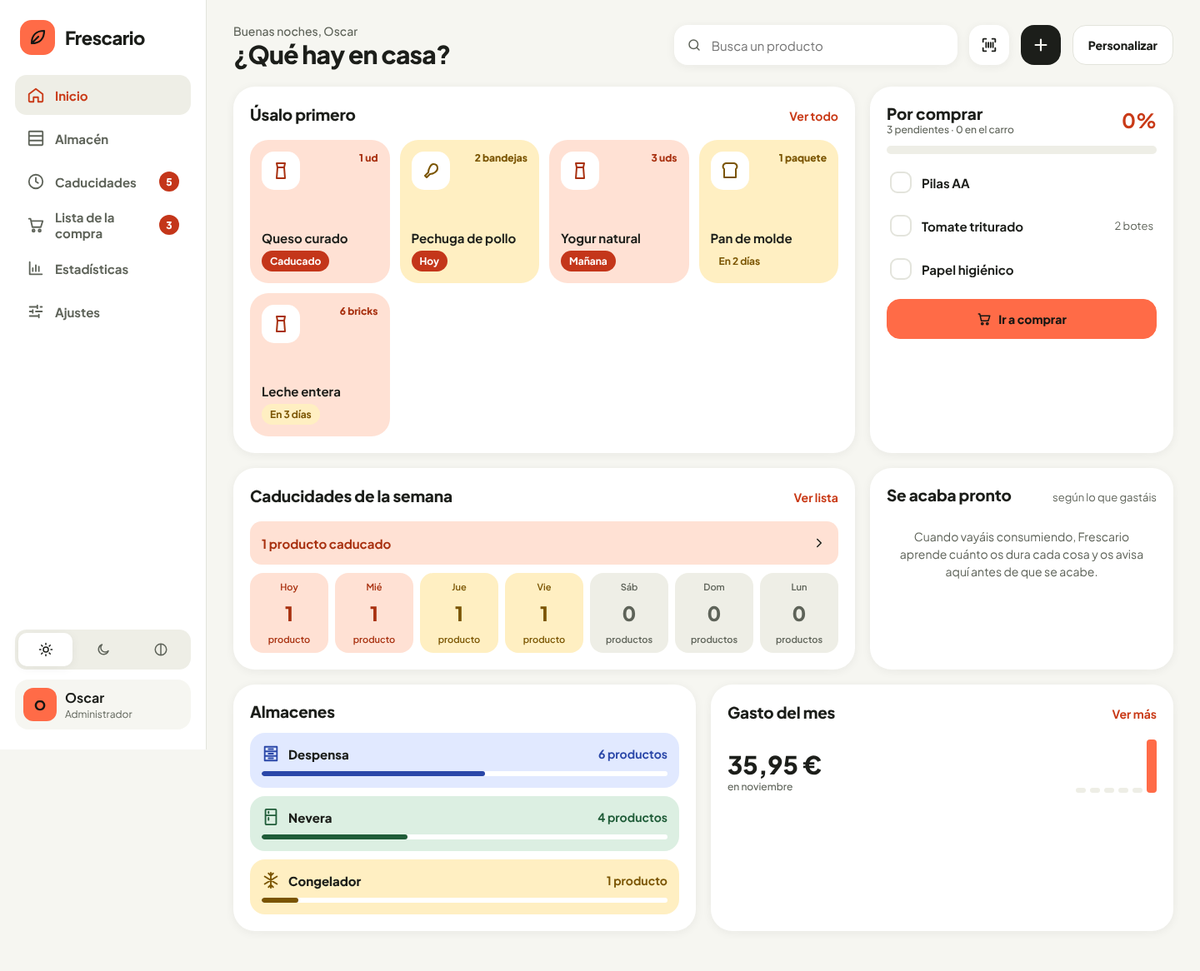
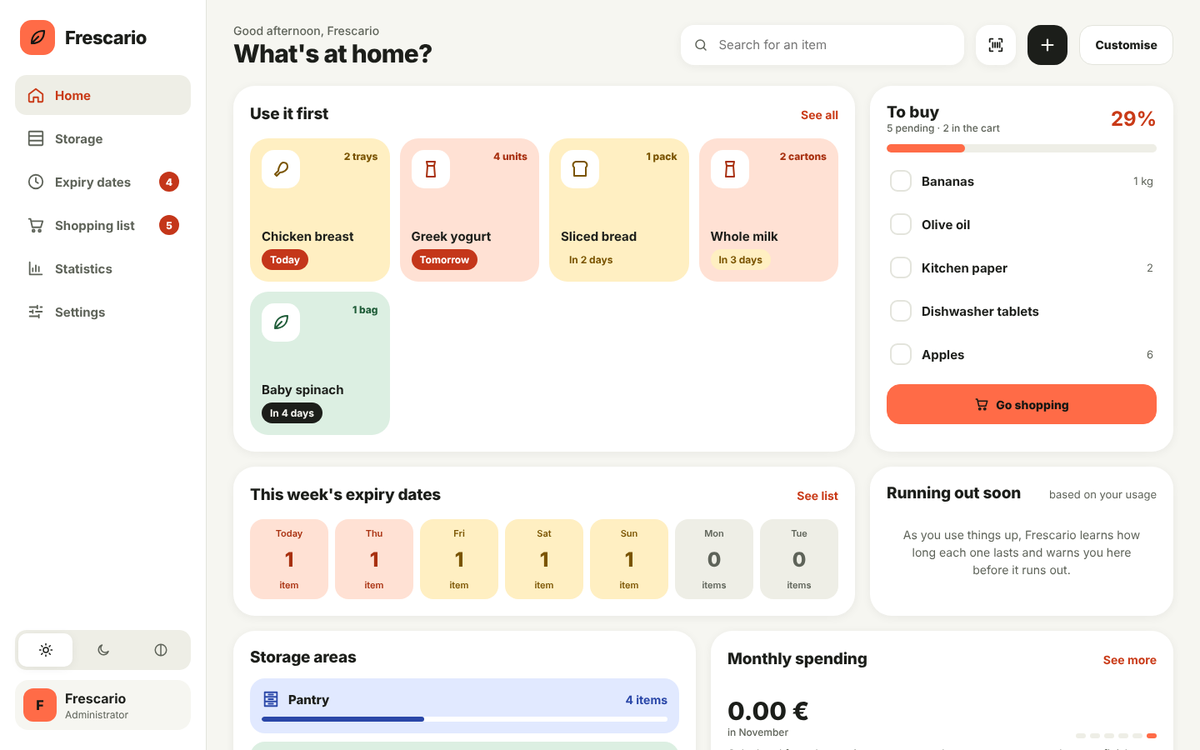
Frescario 1.3.3: capturas nuevas con datos de ejemplo, categorías en inglés y una traducción

diff --git a/frescario/app/server.js b/frescario/app/server.js
@@ -11,7 +11,7 @@ const crypto = require('crypto');
 const ha = require('./ha');
 const ext = require('./externos');
 
-const VERSION = '1.3.2';
+const VERSION = '1.3.3';
 const PORT = parseInt(process.env.PORT || '8099', 10);
 const DEV = process.env.FRESCARIO_DEV === '1';
 const DATA_DIR = process.env.FRESCARIO_DATA || '/data';
@@ -203,13 +203,20 @@ function ritmoConsumo(p) {
 function vistaUsuario(u) { return { id: u.id, nombre: u.nombre, usuario: u.usuario, rol: u.rol, prefs: u.prefs, alta: u.alta }; }
 
 const PISTAS = [
-  [/(leche|yogur|queso|huevo|mantequilla|nata|kefir)/, 'Lácteos y huevos'], [/(pollo|ternera|cerdo|carne|jamon|chorizo|salchich|pavo|lomo|hamburgues|embutido)/, 'Carne'],
-  [/(merluza|salmon|atun|bacalao|gamba|pescado|sardina|calamar|mejillon)/, 'Pescado'], [/(manzana|platano|naranja|pera|tomate|lechuga|cebolla|patata|zanahoria|pimiento|fruta|verdura|ajo|limon|fresa|uva|aguacate|espinaca|calabacin|pepino)/, 'Fruta y verdura'],
-  [/(pan |baguette|bolleria|croissant|tostada|pan$|^pan)/, 'Panadería'], [/(lata|conserva|bote)/, 'Conservas'], [/(congelad|helado|pizza)/, 'Congelados'],
-  [/(agua|zumo|refresco|cerveza|vino|cola|bebida)/, 'Bebidas'], [/(arroz|pasta|macarron|espagueti|lenteja|garbanzo|alubia|harina|fideo)/, 'Pasta, arroz y legumbres'],
-  [/(cafe|cacao|cereal|galleta| te |infusion|mermelada|azucar)/, 'Desayuno'], [/(aceite|vinagre| sal |salsa|especia|ketchup|mayonesa|oregano|pimienta)/, 'Salsas y especias'],
-  [/(chocolate|patatas fritas|snack|chuche|dulce|frutos secos)/, 'Snacks y dulces'], [/(detergente|lejia|friegasuelos|suavizante|lavavajillas|bayeta|estropajo|papel de cocina|bolsas de basura)/, 'Limpieza'],
-  [/(champu|gel|pasta de dientes|desodorante|papel higienico|compresa|maquinilla|crema)/, 'Higiene']
+  [/(leche|yogur|queso|huevo|mantequilla|nata|kefir|milk|yogurt|yoghurt|cheese|egg|butter|cream)/, 'Lácteos y huevos'],
+  [/(pollo|ternera|cerdo|carne|jamon|chorizo|salchich|pavo|lomo|hamburgues|embutido|chicken|beef|pork|meat|ham|bacon|sausage|turkey|mince)/, 'Carne'],
+  [/(merluza|salmon|atun|bacalao|gamba|pescado|sardina|calamar|mejillon|fish|tuna|cod|prawn|shrimp|hake)/, 'Pescado'],
+  [/(manzana|platano|naranja|pera|tomate|lechuga|cebolla|patata|zanahoria|pimiento|fruta|verdura|ajo|limon|fresa|uva|aguacate|espinaca|calabacin|pepino|apple|banana|orange|pear|tomato|lettuce|onion|potato|carrot|pepper|fruit|vegetable|garlic|lemon|strawberr|grape|avocado|spinach|courgette|zucchini|cucumber)/, 'Fruta y verdura'],
+  [/(pan |baguette|bolleria|croissant|tostada|pan$|^ pan|bread|bagel|muffin)/, 'Panadería'],
+  [/(lata|conserva|bote|canned|tinned|chopped tomatoes)/, 'Conservas'],
+  [/(congelad|helado|pizza|frozen|ice cream)/, 'Congelados'],
+  [/(agua|zumo|refresco|cerveza|vino|cola|bebida|water|juice|soda|beer|wine|drink)/, 'Bebidas'],
+  [/(arroz|pasta|macarron|espagueti|lenteja|garbanzo|alubia|harina|fideo|rice|spaghetti|noodle|lentil|chickpea|bean|flour)/, 'Pasta, arroz y legumbres'],
+  [/(cafe|cacao|cereal|galleta| te |infusion|mermelada|azucar|coffee|cocoa|cookie|biscuit| tea |jam|sugar|oat)/, 'Desayuno'],
+  [/(aceite|vinagre| sal |salsa|especia|ketchup|mayonesa|oregano|pimienta| oil|vinegar| salt |sauce|spice|mayo)/, 'Salsas y especias'],
+  [/(chocolate|patatas fritas|snack|chuche|dulce|frutos secos|crisps|chips|candy|sweets|nuts)/, 'Snacks y dulces'],
+  [/(detergente|lejia|friegasuelos|suavizante|lavavajillas|bayeta|estropajo|papel de cocina|bolsas de basura|detergent|bleach|dishwasher|softener|sponge|kitchen paper|kitchen roll|bin bags)/, 'Limpieza'],
+  [/(champu|gel|pasta de dientes|desodorante|papel higienico|compresa|maquinilla|crema|shampoo|toothpaste|deodorant|toilet paper|razor|soap)/, 'Higiene']
 ];
 function adivinarCategoria(nombre) {
   const n = ' ' + norm(nombre) + ' ';
@@ -237,7 +244,7 @@ api.get('/estado', (req, res) => {
     productos: db.productos, compra: db.compra, ritmo,
     tickets: db.tickets.slice(0, 120).map((t) => ({ id: t.id, fecha: t.fecha, comercio: t.comercio, total: t.total, n: (t.articulos || []).length, por: t.por })),
     historial: db.historial.slice(0, 600),
-    ha: { disponible: ha.disponible(), tickets: !!String(leerOpciones().gemini_api_key || '').trim(), lista: ha.estado().lista }
+    ha: { disponible: ha.disponible(), tickets: !!String(leerOpciones().gemini_api_key || process.env.FRESCARIO_GEMINI_KEY || '').trim(), lista: ha.estado().lista }
   };
   if (req.u.rol === 'admin') {
     out.usuarios = Object.values(db.usuarios).map((u) => ({ id: u.id, nombre: u.nombre, usuario: u.usuario, rol: u.rol, ultimo: u.ultimo }));

diff --git a/frescario/app/public/index.html b/frescario/app/public/index.html
@@ -8,7 +8,7 @@
 <link rel="preconnect" href="https://fonts.googleapis.com">
 <link rel="preconnect" href="https://fonts.gstatic.com" crossorigin>
 <link href="https://fonts.googleapis.com/css2?family=Plus+Jakarta+Sans:wght@400;500;600;700;800&display=swap" rel="stylesheet">
-<link rel="stylesheet" href="app.css?v=1.3.2">
+<link rel="stylesheet" href="app.css?v=1.3.3">
 </head>
 <body>
 <div id="app" aria-live="polite">
@@ -16,6 +16,6 @@
 </div>
 <div id="capa"></div>
 <div id="toast" role="status"></div>
-<script src="app.js?v=1.3.2"></script>
+<script src="app.js?v=1.3.3"></script>
 </body>
 </html>

diff --git a/frescario/CHANGELOG.md b/frescario/CHANGELOG.md
@@ -1,5 +1,10 @@
 # Cambios
 
+## 1.3.3
+
+- La categoría automática de la lista de la compra entiende también nombres en inglés.
+- Corregida una traducción en el escáner de tickets.
+
 ## 1.3.2
 
 - Instalación y actualizaciones con imágenes ya compiladas: tardan segundos en vez de minutos.
